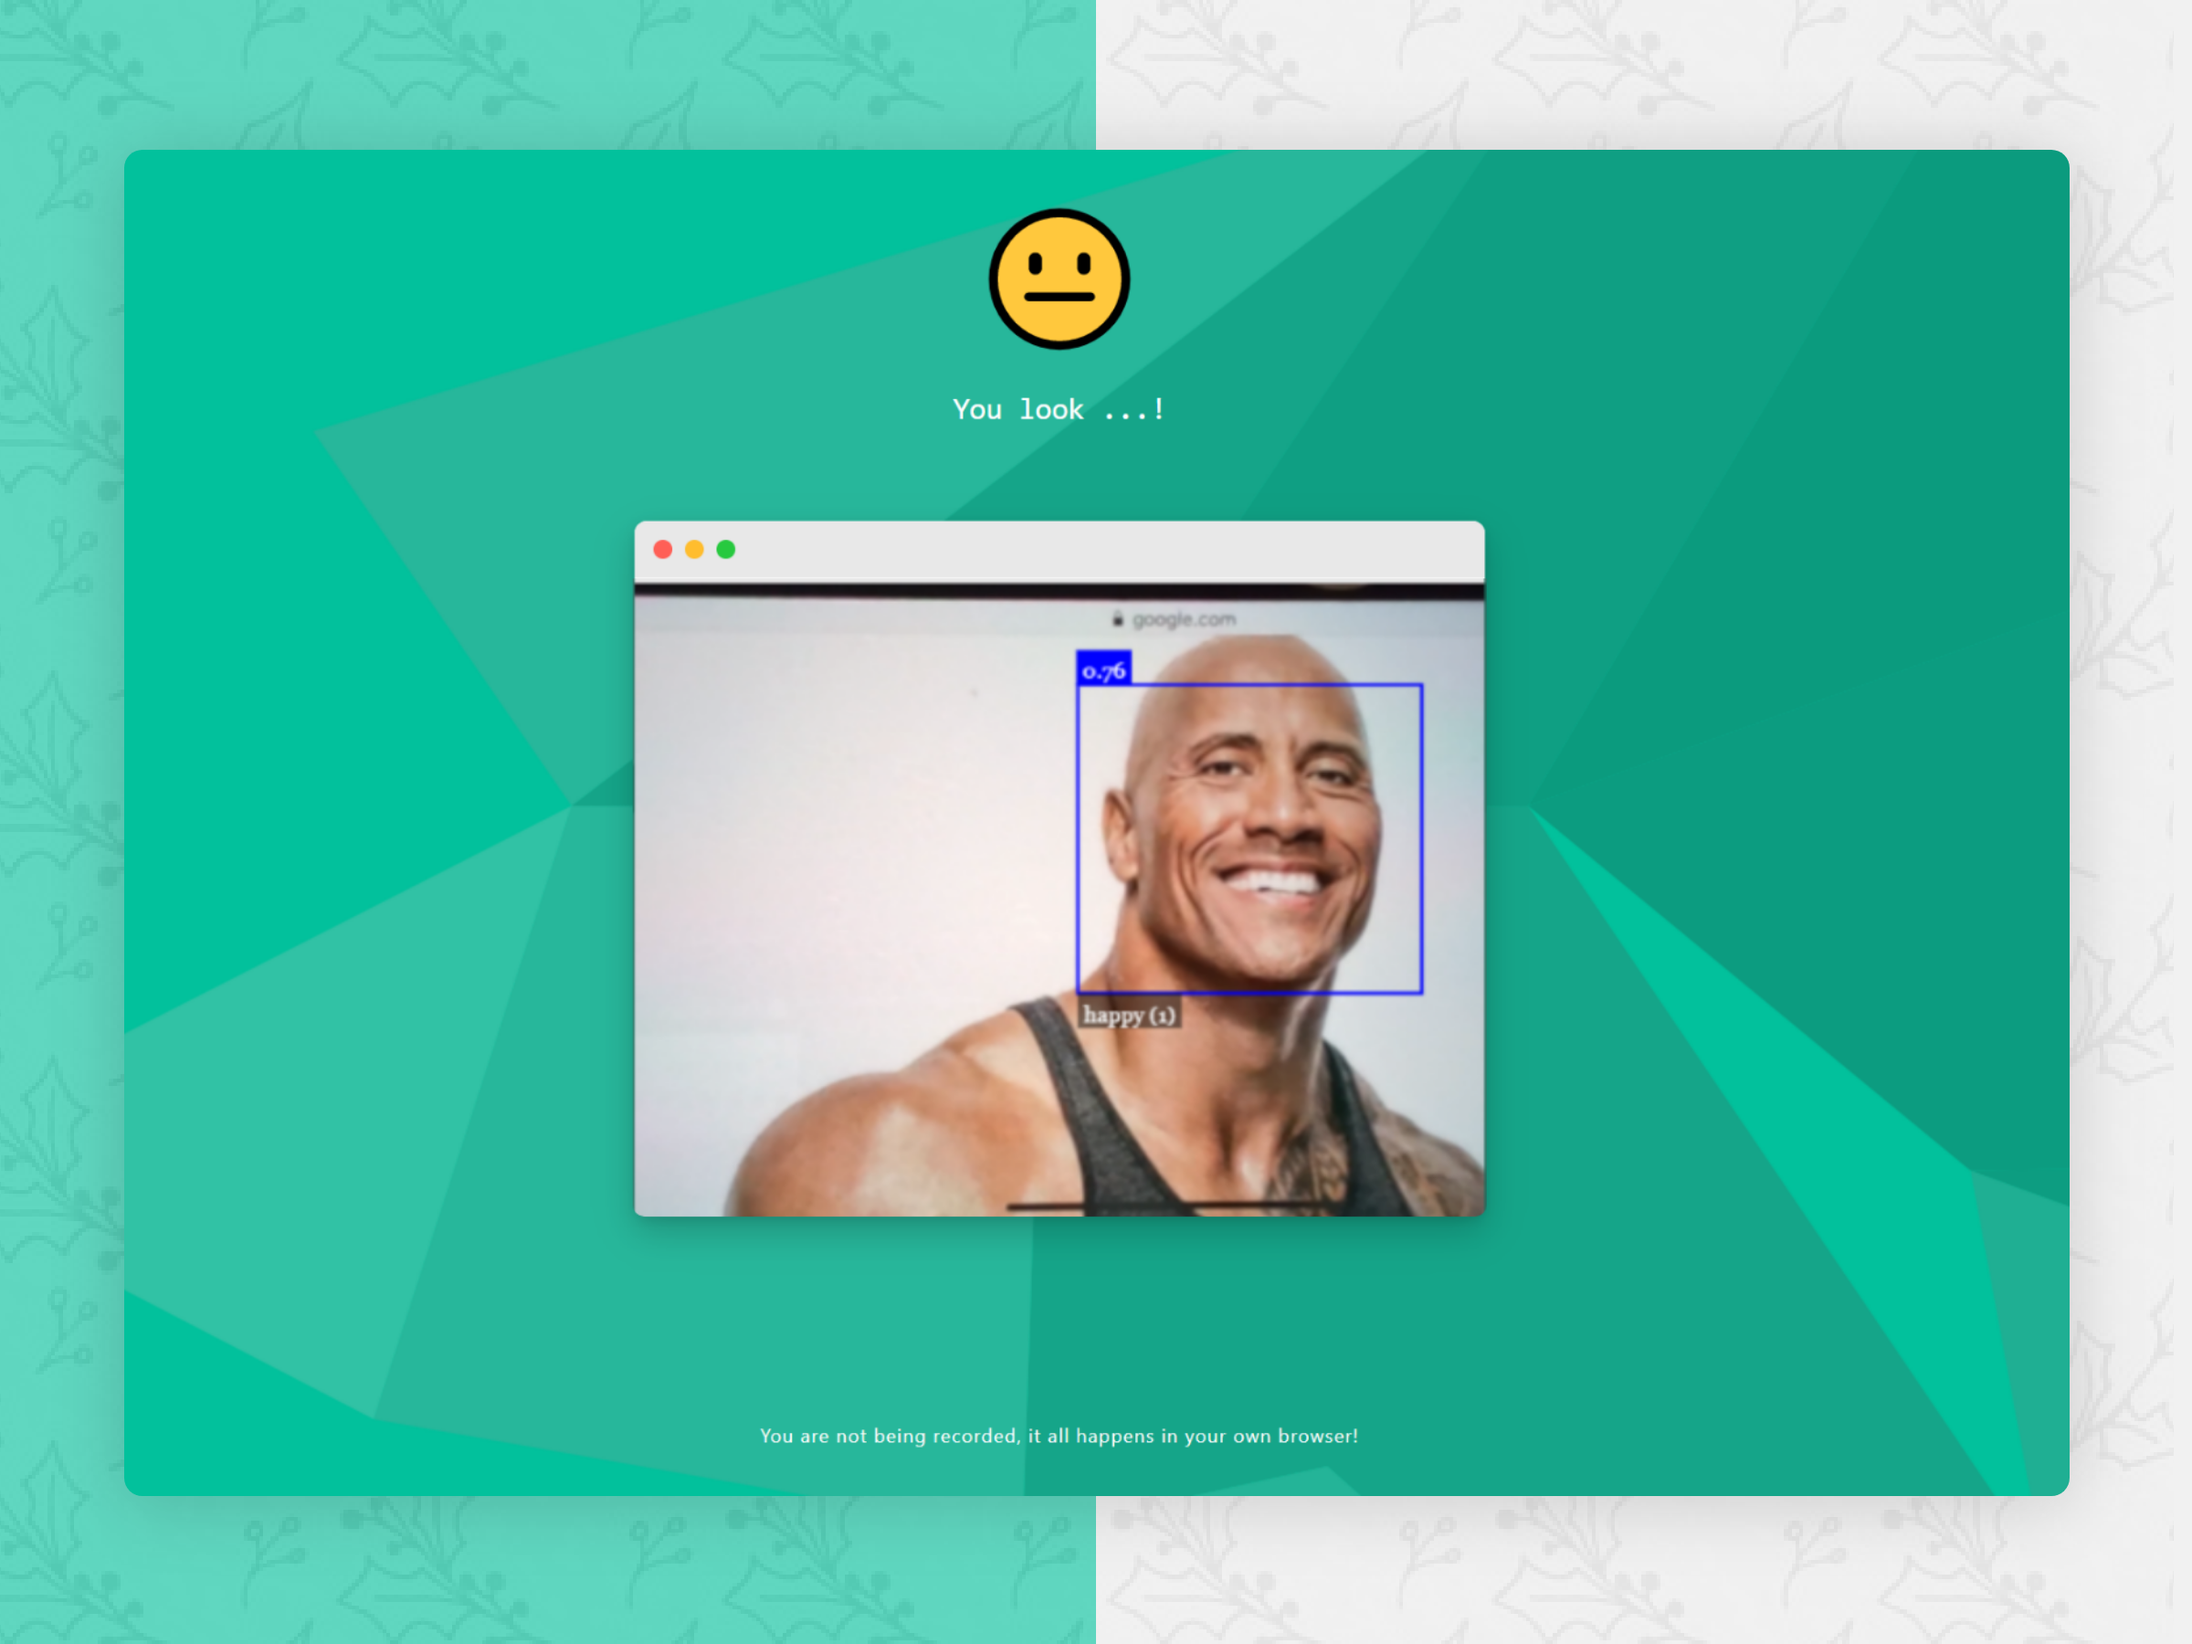
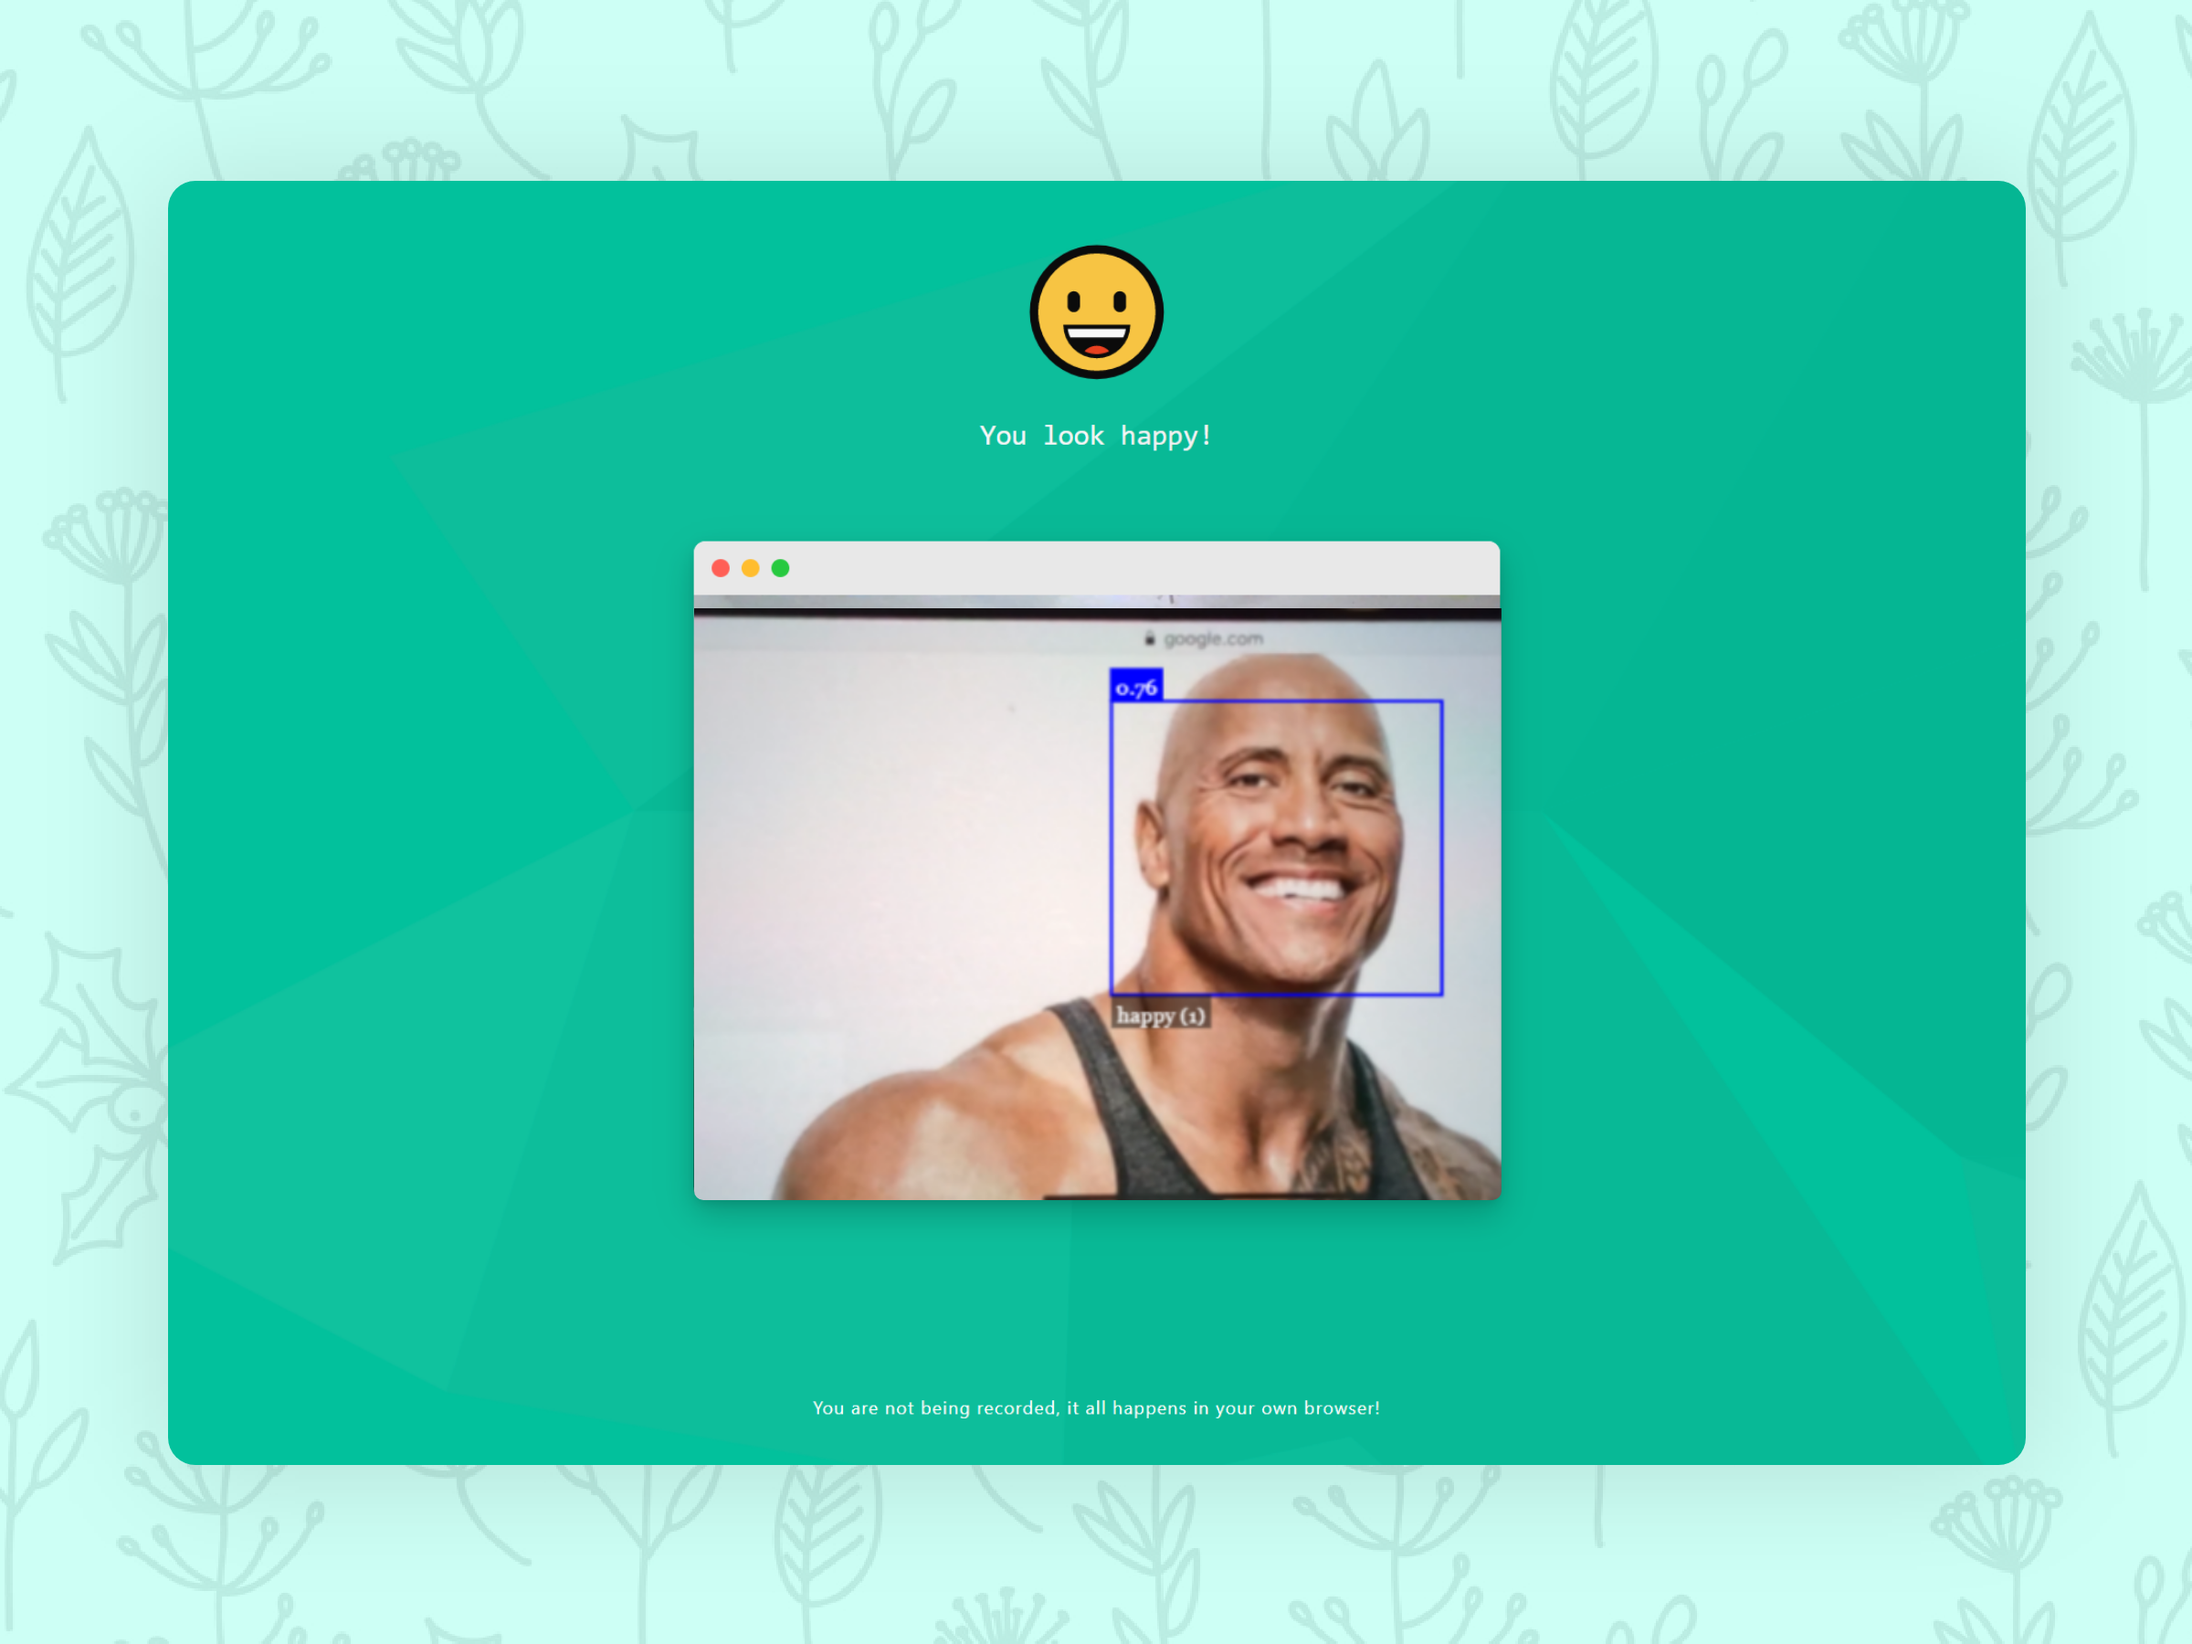
Updated images and cleaned up CSS files

diff --git a/index.html b/index.html
@@ -159,7 +159,7 @@
             <a href="#">
               <div class="mt-5 col-12 col-sm-12 col-md-6 col-lg-4	col-xl-4">
                 <figure class="image">
-                  <img class="project-thumb" src="./src/img/projects/ai1.png">
+                  <img class="project-thumb" src="./src/img/projects/ai.png">
                   <div class="card-content">
                     <h1 class="title">Facial Emotion Detector</h1>
                     <h2 class="description">AI web app that detects face emotions and matches them with emojis.</h2>
